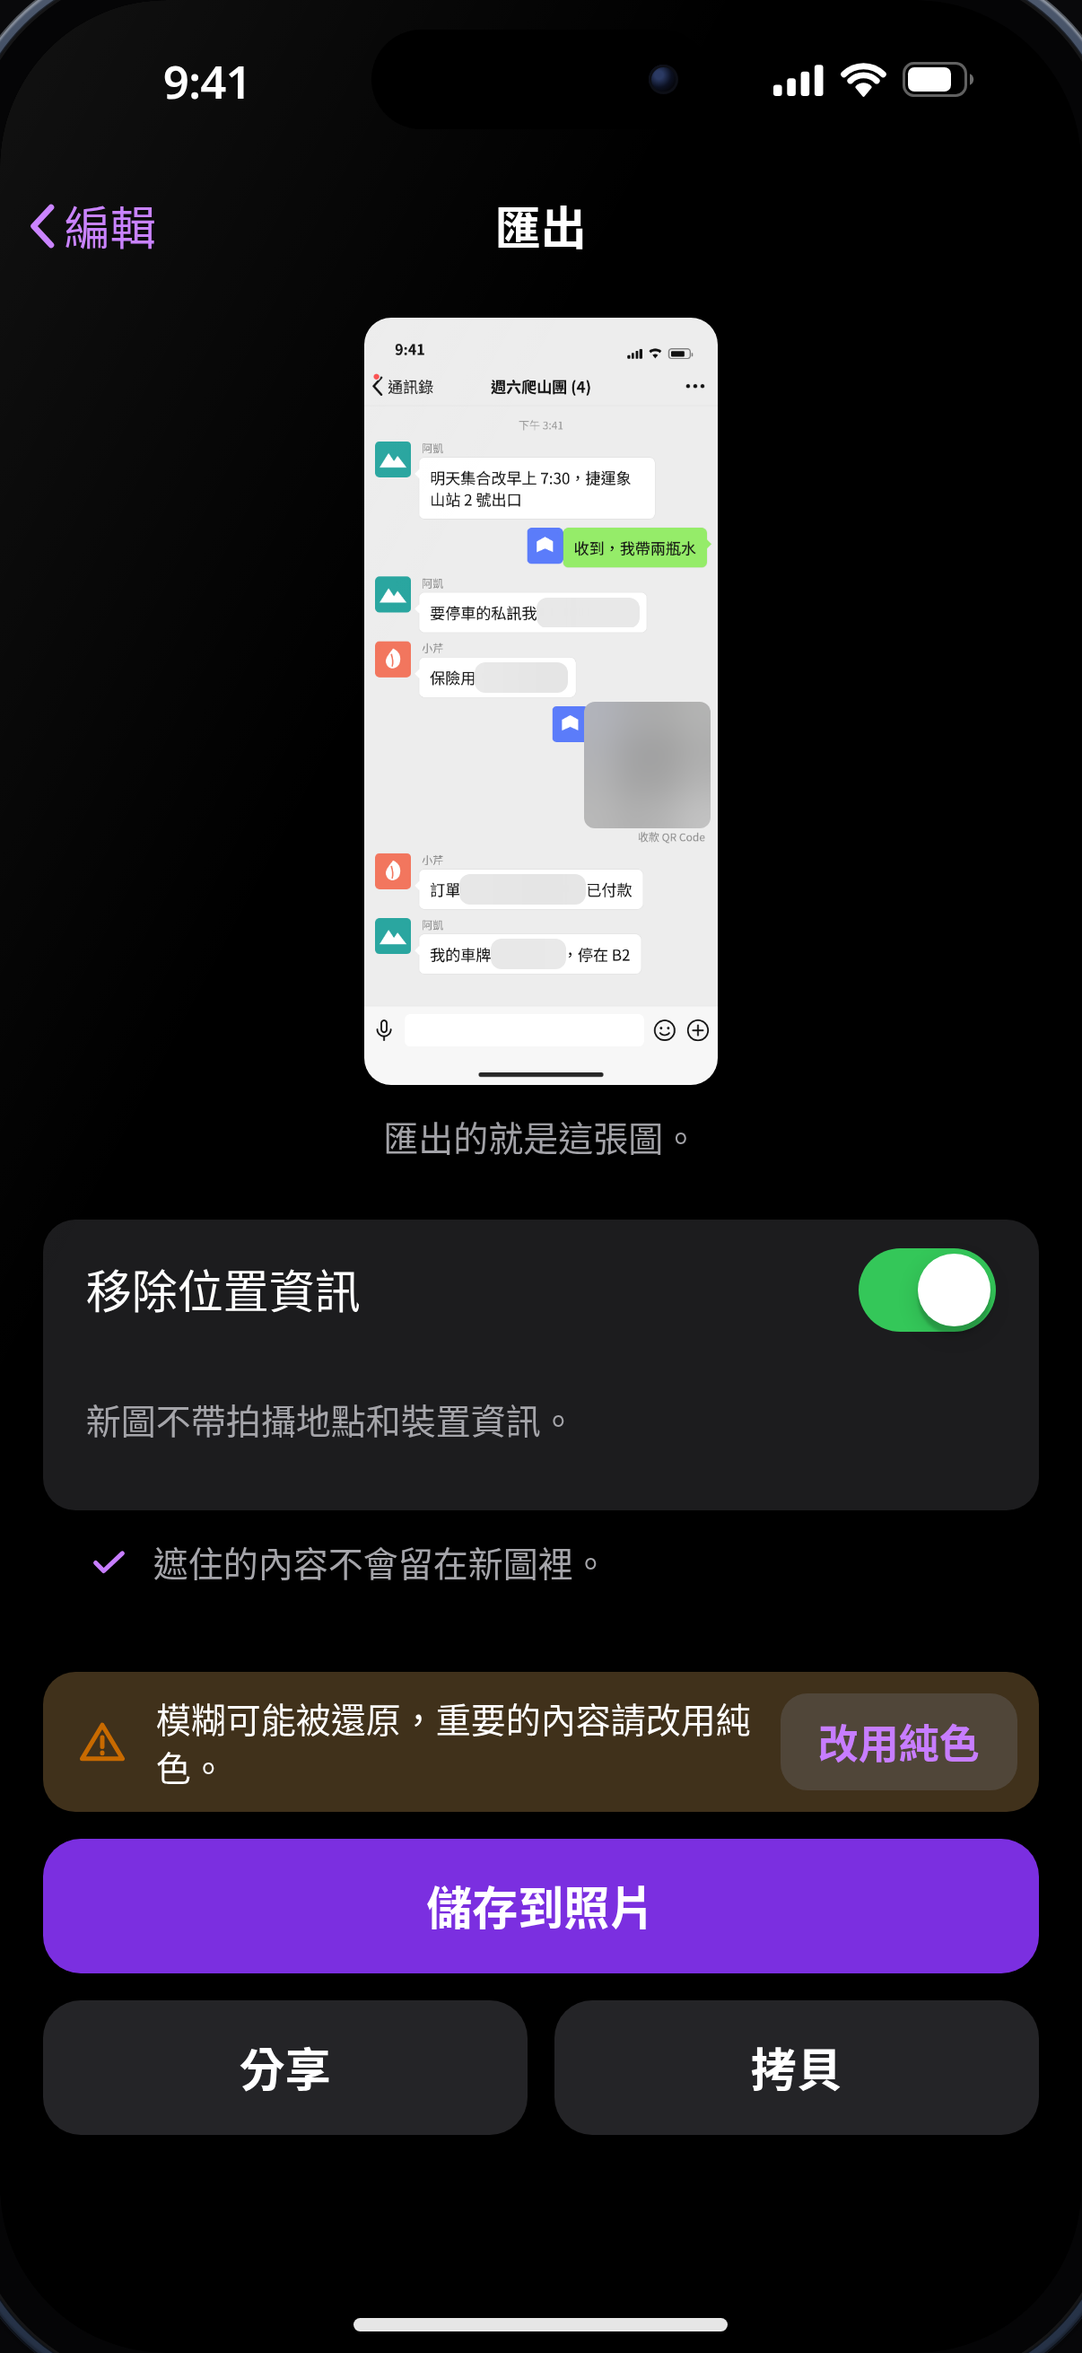
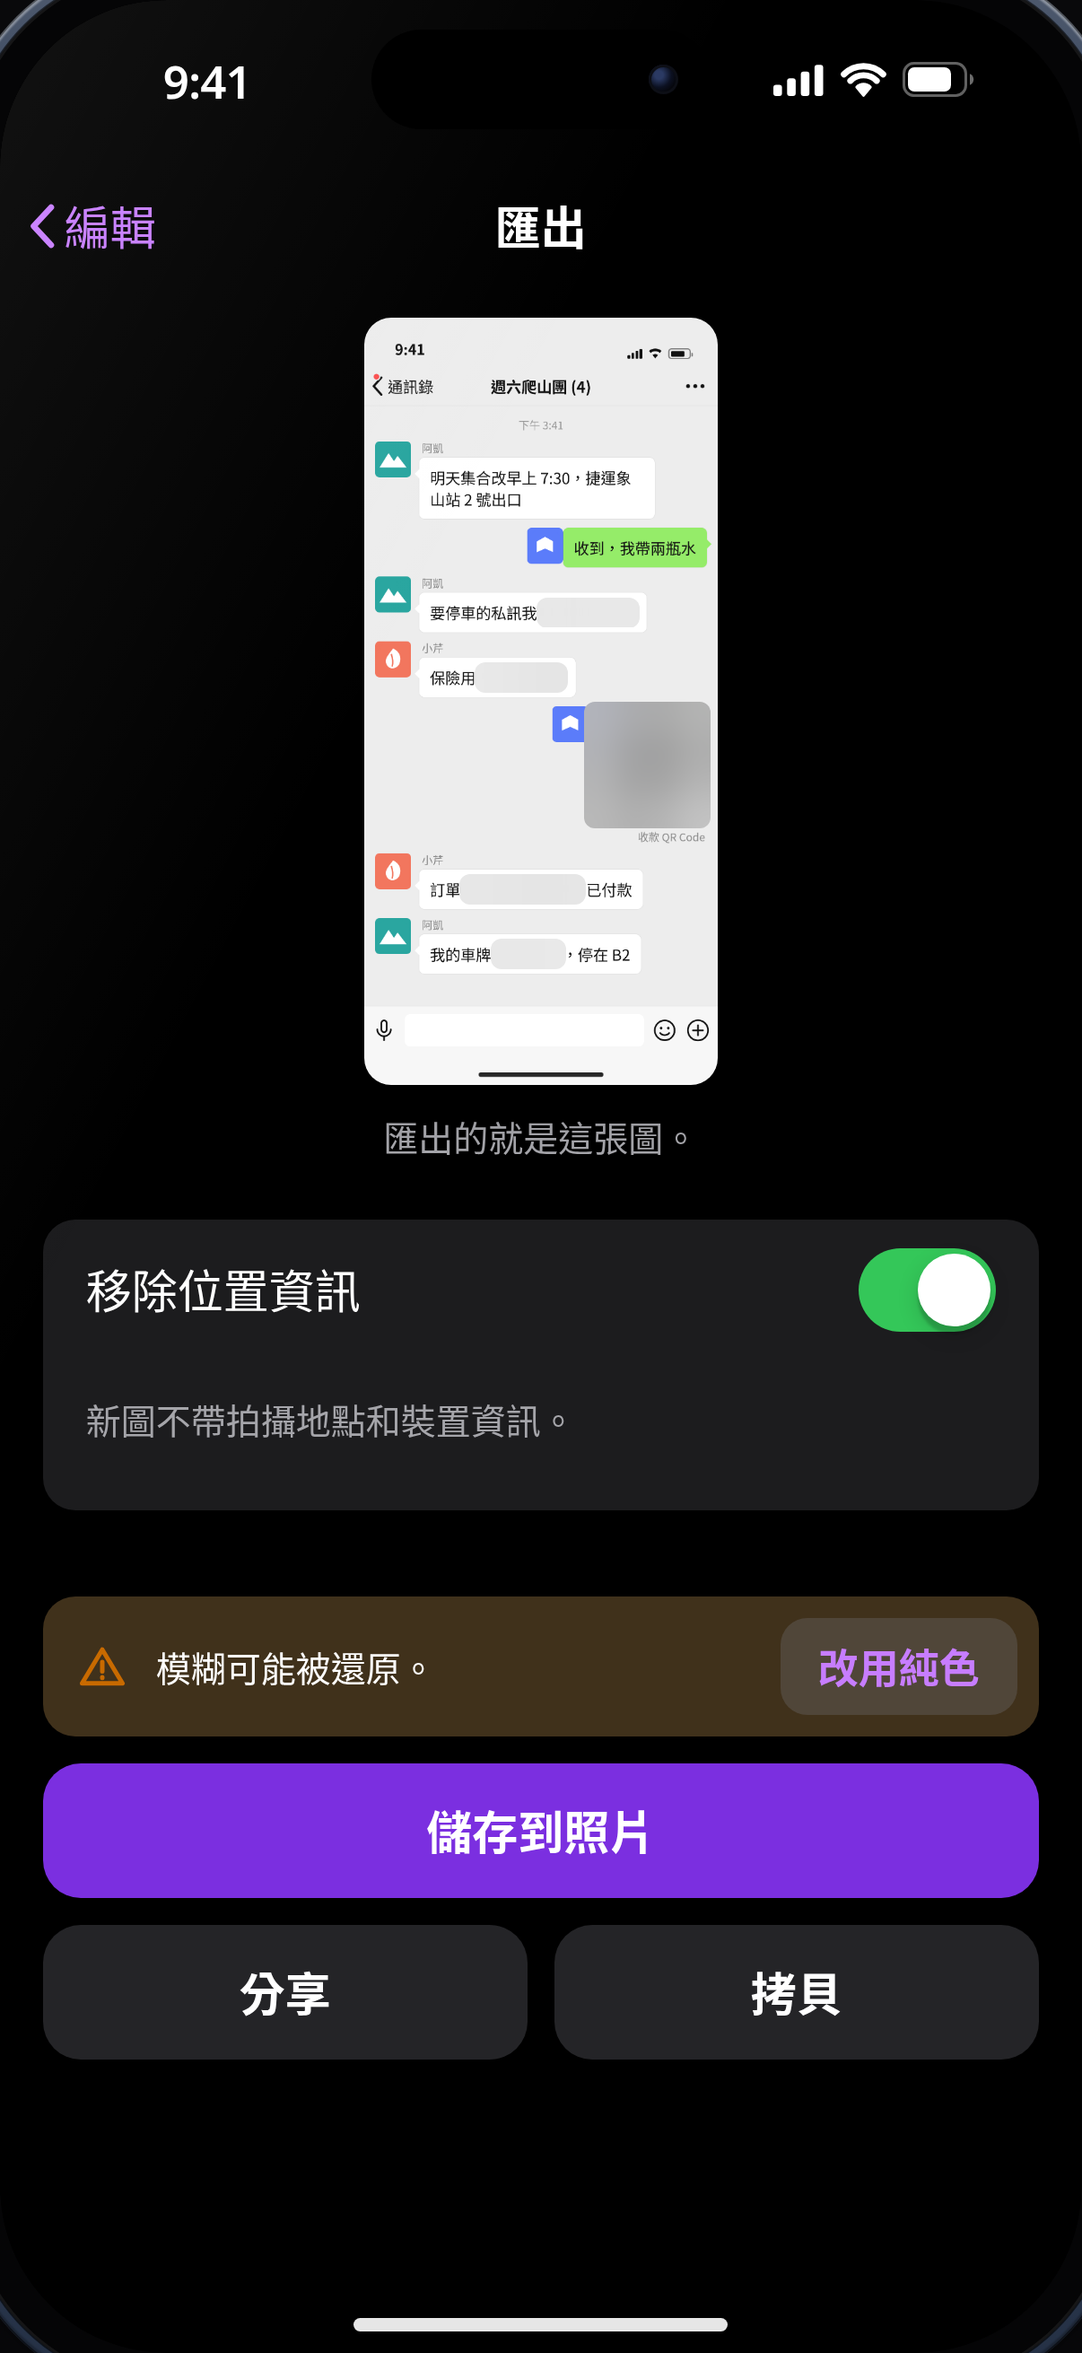
docs(ios): design 1.1 — copy 1.6, Ato's five review points; 8 screenshots recaptured (mockup v23)
- Spec: basis brief 1.4 / copy 1.6; covers add no padding beyond the recognised box; covers appear together; a value folded on two lines = two boxes, one item; export page has no 6.2.4 under blur (only 6.3.1 + 改用純色); photo-permission alert buttons + add-only alert body 3.3.2; VoiceOver phrases in Traditional; dark segmented control selected #636366 (unverified on device); 7.1 is composed.
- Shots: permission, review, review-bottom, review-blur-note, review-photo, export-blur, x-en-review, x-hans-review. 17 others recaptured and found pixel-identical.

Changed region(s): [[0.0307, 0.6487, 0.9818, 0.9268]]

diff --git a/docs/ios/design.md b/docs/ios/design.md
@@ -1,7 +1,7 @@
 # 秒遮 / QuickCover — 界面规格（design.md）
 
-版本 1.0 · 2026-11-23 · Colo（@design）
-依据：简报 `docs/ios/brief.md` 1.3、文案 `docs/ios/copy.md` 1.4。界面上的字只从 copy.md 按编号取，这份文件不另写一句。
+版本 1.1 · 2026-11-23 · Colo（@design）
+依据：简报 `docs/ios/brief.md` 1.4、文案 `docs/ios/copy.md` 1.6。界面上的字只从 copy.md 按编号取，这份文件不另写一句。
 可点的样机：<https://airbuild.page/a804c16b-33d0-4405-b933-6ef81e8da3c9>。右栏「状态」切编辑页会遇到的九种情况，「屏幕」切各页，「方案」切繁體 / 简体 / English。样机整个是深色，右栏的「外观」不用切。
 **还没定的两条（§12.1 第 1、2 条），先照这样做**：强调色先按紫，其他页先按全黑。Steve 选了再换，换了要动什么写在 §12.1。
 样机截图在 `docs/ios/design-shots/`，都是 1206×2622（402×874 pt 的三倍，iPhone 16 Pro 的屏），文件名开头的小节号对应本文的小节（§7 各屏，§10.1 图标）。
@@ -10,8 +10,9 @@
 ## 0. 怎么读
 
 - 长度一律 pt；颜色给 sRGB 十六进制（整个 App 只有深色一种外观，§11.1）；字体给 SwiftUI 的 `Font.TextStyle`。
-- 「一项」就是图上的一块，也是逐项检查里的一行（简报 §6）。一块遮盖对一个开关。
+- 「一项」就是图上的一块，也是逐项检查里的一行（简报 §6）。一块遮盖对一个开关。一个值被折到两行，画出来是两块，算一项：逐项检查里一行、一个开关，两块一起开、一起关（Ato，2026-11-23）。
 - 「3.1.1」这种编号都指 copy.md。本文引号里的界面字是繁体，因为 Steve 的手机是繁体；简体和英文在 copy.md 同一行。
+- 1.1 改了什么（照 Ato 和 Camo 的评审）：字换到文案 1.6；遮盖不再另加留边；遮盖同时出现；折到两行的值是两块、一项；导出页模糊时没有 6.2.4；「只能添加」弹窗的正文是 3.3.2；读屏念出来的字写成繁体。
 - 标「待定」的是要别人定的，标「未验」的是我没验证过的，都收在 §12。
 - 没有的东西不画占位、不写「暂无」。§7.1.3、§7.1.4、§7.3.4、§7.3.5 四张就是照这条做的。
 - 样机里的两张样图是假数据：聊天截图 14 项（命中规则的文字 4、其余文字 9、二维码 1），照片 2 张人脸。数字只用来对样子，不代表找得多准。
@@ -184,7 +185,7 @@ NavigationStack {
 
 **提醒条**
 - 圆角 12 的一条：左边图标 20，中间 `.footnote` 正文色，右边可以带一个小按钮。上下内边距 8。
-- 模糊那一条（4.7.5）：底 `#FF9F0A` 16%，图标 `exclamationmark.triangle`，`#C86A00`，右边小按钮「改用純色」。
+- 模糊那一条（面板里是 4.7.5，导出页是 6.3.1）：底 `#FF9F0A` 16%，图标 `exclamationmark.triangle`，`#C86A00`。导出页那条右边有小按钮「改用純色」，面板里没有。
 - 存失败那一条（6.4.x）：底是填充二，图标 `exclamationmark.circle`，`#FF3B30`，右边文字按钮「再試一次」。
 
 **提示卡（编辑页底部）**
@@ -258,7 +259,7 @@ NavigationStack {
 
 #### 7.2.2 系统权限弹窗 `7-2-permission.png`
 
-系统的弹窗，我们不画。标题是系统写的（“秒遮” 想要取用你的照片），按钮也是系统的；我们只给正文 3.3.1。系统给的是哪几个按钮（「允許取用所選照片」有没有）由 Pluso 选的权限级别定，样机里的样子只是一种可能（未验，§12）。
+系统的弹窗，我们不画。标题是系统写的（“秒遮” 想要取用你的照片），按钮也是系统的；我们只给正文 3.3.1。按钮有哪几个由 Pluso 选的权限级别定；样机里画的是「選取照片…」「允許取用所有照片」「不允許」三个，没有实拍核对过（未验，§12）。另有「只能添加」的那个弹窗：只给了「所選照片」权限的手机上点「儲存到照片」时系统弹，正文是 3.3.2，不画样机。
 
 - 给了「所有照片」→ 进编辑页，载入最近一张截图（§7.3.1）。
 - 给了「所選照片」或「不允許」→ 进选图页（§7.1）。
@@ -280,7 +281,7 @@ NavigationStack {
 #### 7.3.2 找到了 `7-3-2-found.png`、照片 `7-3-photo.png`
 
 - 图清清楚楚，该遮的都盖上了。页面上没有标题、没有数字（数字在逐项检查顶上，§7.4）。
-- 一块遮盖就是一项。规则命中一段连续文字的一部分时，整段一起遮，宁可多遮（Ato，2026-11-23）。
+- 一块遮盖就是一项。规则命中一段连续文字的一部分时，整段一起遮，宁可多遮（Ato，2026-11-23）。一个值被折到两行，画出来是两块，算一项：逐项检查里一行、一个开关，两块一起开、一起关（Ato，2026-11-23）。
 - 遮盖的样子跟着当前样式（默认马赛克，§7.4 底部能换，换过会记住）：
 
 | 样式 | 画法 |
@@ -289,8 +290,8 @@ NavigationStack {
 | 模糊 | 高斯模糊，半径是图宽的 4.3%；圆角 4 |
 | 纯色 | `#000000`；圆角 4 |
 
-- 每块遮盖比找到的那一块每边大出图宽的 1.1%，免得边上露出一笔画。
-- 盖上的时候从 0.6 放大到 1，0.26 秒，由上到下每块晚 35 毫秒。
+- 遮盖就是找到的那一块，留边已经在里面（文字上边半个框高，下边和左右 0.2–0.25 倍框高；车牌四边 0.35–0.5 倍；人脸按简报 §6 的数），界面不再另加。马赛克要对齐格子的话只许往外贴，最多多出一格。
+- 盖上的时候从 0.6 放大到 1，0.26 秒；所有块同时出现，不排队（§8）。
 - 默认遮的（copy.md §4.5）：人脸、手机号、身份证号、银行卡号、邮箱、网址、IP、长串数字、可能是车牌、二维码、条形码。默认不遮的只有「文字」，图上原样显示，什么都不画。
 - 手势：两指缩放 1 到 4 倍、拖动；松手后图不会拖出可视区。单指点图上没有反应，不选中任何东西。
 - 底下的「還原」「重做」在没有东西可還原、可重做时是 42% 不透明。
@@ -360,7 +361,7 @@ NavigationStack {
 #### 7.4.4 底部的样式 `7-4-review-bottom.png`、`7-4-review-blur-note.png`
 
 - 钉在面板底部，上边一条分隔线，上内边距 6，下边离底部安全区 6。
-- 小标题 4.7.1「樣式」（`.footnote`，次要色，拉丁字母大写），下面 7 是系统分段控件：4.7.2 馬賽克、4.7.3 純色、4.7.4 模糊。左右 16。
+- 小标题 4.7.1「樣式」（`.footnote`，次要色，拉丁字母大写），下面 7 是系统分段控件：4.7.2 馬賽克、4.7.3 純色、4.7.4 模糊。左右 16。深色下选中的那一段底是 `#636366`、三个标签都是白的——这是系统控件自己的值，样机照这个画的，没有实拍核对过（未验，§12）。
 - 点哪段，图上的遮盖马上全换成那种（§7.3.2 的表）。用过的样式记住，下次打开还是它。
 - 这次自己点到「模糊」时，分段下面 8 出一行 4.7.5：`exclamationmark.triangle` 15 pt `#C86A00` 加 `.footnote` 次要色。上次留下的模糊不出这一行（导出页会提醒，§7.5）。换到别的样式就收起。
 
@@ -373,12 +374,12 @@ NavigationStack {
 1. 顶上 12：导出的图，居中。最宽 300、最高 380，按比例。上面就是遮好了的样子，和存下来的一模一样。圆角 10，阴影 y 6、模糊 22、黑 20%。
 2. 图下 10：6.1.2，`.footnote`，次要色，居中。下面 22。
 3. 一张卡片，一行：6.2.1「移除位置資訊」，下面小字（开着是 6.2.2，关了是 6.2.3），右边开关，默认开。
-4. 卡片下 10：一行说明字 6.2.4（`.footnote`，次要色，左右 32），前面 `checkmark` 15 pt 强调色。
+4. 卡片下 10：一行说明字 6.2.4（`.footnote`，次要色，左右 32），前面 `checkmark` 15 pt 强调色。**只在样式是马赛克或纯色时有这一行，模糊时没有**：模糊后的像素就是遮住的内容，和下面的 6.3.1 放在一起两句打架（Ato，2026-11-23）。
 5. 钉在底部（左右 16，上下 12，离底部安全区 8）：主按钮 6.1.3「儲存到照片」；下面 10 是并排的次按钮 6.1.4「分享」和 6.1.5「拷貝」。按钮区上面一层 20 pt 的渐变，从透明到页面底，内容从下面滚过去不顶到按钮上。
 
 #### 7.5.2 上次用的是模糊 `7-5-export-blur.png`
 
-样式是模糊、而且不是这次自己选的时，位置信息卡片下面 10 多一条提醒：4.7.5 同一句（6.3.1）加小按钮 6.3.2「改用純色」（§6 的提醒条）。点了换成纯色，图和遮盖马上变，提醒收起。这时的图最高 285，给提醒让地方。
+样式是模糊、而且不是这次自己选的时，位置信息卡片下面 10 多一条提醒：一行 6.3.1「模糊可能被還原。」加右边小按钮 6.3.2「改用純色」（§6 的提醒条）。这句只说风险，做法让按钮说；面板里那次自己选模糊时出的 4.7.5 还是整句，两条不是同一句（copy.md 1.5）。点了换成纯色，图和遮盖马上变，提醒收起。这时的图最高 285，给提醒让地方。
 
 #### 7.5.3 存失败 `7-5-export-fail.png`
 
@@ -439,7 +440,7 @@ NavigationStack {
 
 - 图和图上的遮盖不是读屏元素：它们没有能念的东西，被遮的内容也规定不念（copy.md §7）。想逐项知道遮了什么，走逐项检查。
 - 图上的胶囊：4.2.1「正在找要遮的地方…」出现时念一次，之后不进顺序（那两个玻璃按钮这期间不能点，等它们恢复就能接着走）；4.8.4、4.8.6 不进顺序。「看原圖」开没开，由逐项检查里那个开关来念。
-- 還原、重做没东西可做的时候，按钮还在顺序里，读成「還原，已变暗」（`.disabled(true)` 的系统读法），不藏起来——藏了会让人以为按钮没了。
+- 還原、重做没东西可做的时候，按钮还在顺序里，读成「還原，已變暗」（`.disabled(true)` 的系统读法），不藏起来——藏了会让人以为按钮没了。
 
 ### 9.2 每个元素怎么念
 
@@ -447,9 +448,9 @@ NavigationStack {
 |---|---|---|---|
 | 換一張 | 4.1.2 換一張 | 按钮 | — |
 | 逐項檢查 | 4.4.1 逐項檢查 | 按钮 | — |
-| 還原 | 4.8.1 還原 | 按钮；能做 / 已变暗 | — |
-| 重做 | 4.8.2 重做 | 按钮；能做 / 已变暗 | — |
-| 手動框選 | 4.8.3 手動框選 | 按钮；选上了加「已选中」 | — |
+| 還原 | 4.8.1 還原 | 按钮；能做 / 已變暗 | — |
+| 重做 | 4.8.2 重做 | 按钮；能做 / 已變暗 | — |
+| 手動框選 | 4.8.3 手動框選 | 按钮；选上了加「已選取」 | — |
 | 匯出 | 4.9.1 匯出 | 按钮 | — |
 | 提示卡的标题、正文 | 5.1.1、5.1.2 等 | 静态文字，一次念完 | — |
 | 提示卡的按钮 | 5.1.3 等 | 按钮 | — |
@@ -457,22 +458,22 @@ NavigationStack {
 ### 9.3 逐项检查
 
 - 打开面板时念标题 4.4.1 一次（`AccessibilityNotification.ScreenChanged`，或让面板成为 `.accessibilityElement(children: .contain)` 并用 `AccessibilityFocusState` 把焦点放到标题上）。
-- 汇总一行用 7.1：「找到 2 張人臉、5 處文字、1 個 QR Code」。数字由程序填，顺序同画面（§7.4.2）。它是静态文字，不是按钮。
+- 汇总一行用 7.1：「找到 2 張人臉、5 處文字、1 個 QR Code」。它不是写死的一句，是拼出来的（copy.md §7）：先「找到」（英文 Found），后面接汇总里有的各项（4.3.1–4.3.4），中文用「、」连，英文用逗号连、最后一项前面加 and；没有的类不念，数字由程序填，顺序同画面（§7.4.2）。它是静态文字，不是按钮。
 - **一行是一个读屏元素**，不是两个（名字和开关合并）：
   - 名字：那一行的字（「手機號碼」「人臉 2」）；带小字的行把小字跟在后面念（4.5.14、4.6.2）。
   - 状态：4.5.15「已遮」或 4.5.16「沒遮」（`.accessibilityValue`）。
   - 提示：7.2「點兩下切換遮或不遮」。点两下 = 切换开关。
   - 自定义动作一个：4.4.4「在圖上看」，就是点行的字那个效果（§7.4.3）。用转子或动作菜单调出来。
-- 「看原圖」那一行：名字 7.3「看原圖」，状态是系统的「开启 / 关闭」。它是逐项检查的第一行（copy.md §7：所有人都看得到）。
+- 「看原圖」那一行：名字 7.3「看原圖」，状态是系统的「開啟 / 關閉」。它是逐项检查的第一行（copy.md §7：所有人都看得到）。
 - 「遮住所有文字」：名字 4.6.1，后面念 4.6.2，状态同上。
 - 4.4.3 那一行提醒：念 4.4.3，然后是按钮 4.8.3「手動框選」（同一句字，点了关面板、进拖框）。
 - 样式分段控件：系统的分段控件，念 4.7.2–4.7.4；4.7.1「樣式」是它的标签（`.accessibilityLabel`）。
-- 4.7.5 那一条：念 4.7.5，然后小按钮 6.3.2「改用純色」。
+- 面板里的 4.7.5 那一条：念 4.7.5，没有按钮。导出页那条（§9.4）：念 6.3.1，然后小按钮 6.3.2「改用純色」。
 
 ### 9.4 导出页和选图页
 
-- 都是系统的分组样式和导航栏，读法跟系统。开关那一行：名字 6.2.1，后面念 6.2.2 / 6.2.3，状态「开启 / 关闭」。
-- 6.2.4 是静态文字，跟在卡片后面。
+- 都是系统的分组样式和导航栏，读法跟系统。开关那一行：名字 6.2.1，后面念 6.2.2 / 6.2.3，状态「開啟 / 關閉」。
+- 6.2.4 是静态文字，跟在卡片后面；样式是模糊时没有这一行（§7.5）。模糊那条提醒：念 6.3.1，然后按钮 6.3.2。
 - 存好了、拷貝了：toast 出现的同时念一次 6.4.1 / 6.4.4（`AccessibilityNotification.Announcement`）。toast 本身不进顺序。
 - 存失败的提醒条：念 6.4.2，然后按钮 6.4.3。出现时念一次。
 - 系统分享面板、系统照片选择器、系统警告：系统的。
@@ -483,7 +484,7 @@ NavigationStack {
 - 字号到辅助功能档（AX1 起）时：编辑页顶部两个玻璃按钮只留图标（名字仍在读屏里）；玻璃条上的「匯出」只留图标；逐项检查的卡片行高随字长高，不截断。这三条没画样机（未验，§12）。
 - 对比度都算过，在 §2 的表里。图上的白字都在玻璃或 `#1C1C1E` 的卡上，不直接压在图上。
 - 能点的东西最小 44×44 pt：玻璃条上的图标按钮是 44 的圆，开关那一整行都能点，提醒条里的文字按钮高 36 但点的地方上下各补 4 到 44。
-- 颜色不是唯一的提示：选中的工具除了变色，读屏念「已选中」；没遮的项除了开关是关的，读屏念「沒遮」。
+- 颜色不是唯一的提示：选中的工具除了变色，读屏念「已選取」；没遮的项除了开关是关的，读屏念「沒遮」。
 - 「降低透明度」开着时玻璃由系统变实，我们不改；「增强对比度」不用单独适配，编辑页本来就是黑底。
 - 左到右的语言就三种（繁體、简体、English），不做从右到左的布局。
 
@@ -576,7 +577,7 @@ Image("IconArtwork")
 - 为什么不是「编辑页黑、其余跟手机」：编辑页无论如何都是黑的，图在黑底上最清楚；选图、逐项检查、导出都是编辑页的前后一步，一黑到底就不用在两页之间换外观（换了会闪一下），玻璃和弹窗也都是深色的，白字在玻璃上最稳。相机、照片的编辑页都是这么做的。这条还没定（§12.1 第 2 条），定了之前先按全黑做。
 - 系统的照片选择器、文件选择器、分享面板、警告会跟着是深色（未验，§12.2）。
 - 引导页也是黑底。图标自己的底 `#121214` 只比页面亮一点，所以那一圈 1 pt 白 14% 的边代替了投影（§7.2.1）。
-- 截图全部是深色外观下截的，是浏览器里截的样机：没有 SF 字体，引导页那张图标画放大以后边缘有一点锯齿，真机上不会这样。做出来的界面以这份规格的数为准，不用去对截图里的像素。文件名 `x-en-` 开头的是英文，`x-hans-` 开头的是简体。
+- 截图全部是深色外观下截的，是浏览器里截的样机：没有 SF 字体，引导页那张图标画放大以后边缘有一点锯齿，真机上不会这样。样机的字比真机的系统字体窄一成多（Camo 量过），英文哪一句会折行以真机为准。做出来的界面以这份规格的数为准，不用去对截图里的像素。文件名 `x-en-` 开头的是英文，`x-hans-` 开头的是简体。
 
 ### 11.2 语言
 
